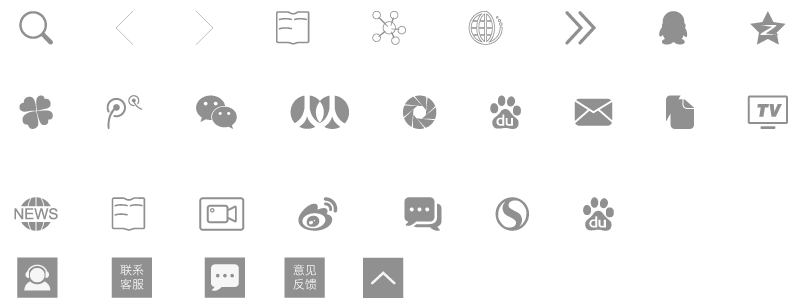
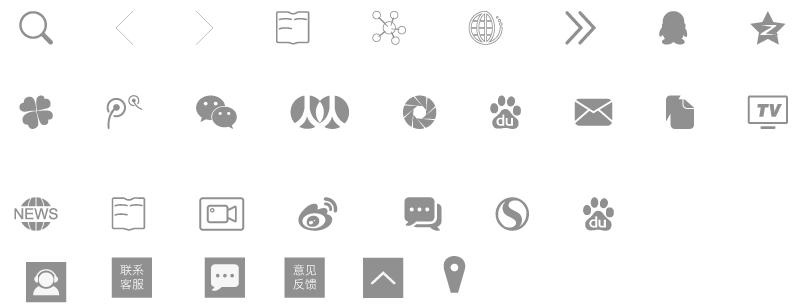
2016-08-10 11:46 update

Changed region(s): [[0.0, 0.8289, 0.0909, 1.0], [0.5455, 0.8289, 0.6061, 0.977]]

diff --git a/css/register.scss b/css/register.scss
@@ -1,5 +1,101 @@
+
+.checkbox{
+    margin-top: 30px;
+    margin-bottom: 30px;
+    .agree{
+        margin-left: 30px;
+    }
+    .checkboxOne {
+        width: 25px;
+//      margin: 20px 100px;
+        position: relative;
+    }
+    .checkboxOne label {
+        cursor: pointer;
+        position: absolute;
+        width: 25px;
+        height: 25px;
+        top: 0;
+        left: 0;
+        background: #FC9874;
+        border:0px solid #ddd;
+        border-radius: 5px;
+    }
+    .checkboxOne label:after {
+        opacity: 0.2;
+        content: '';
+        position: absolute;
+        width: 9px;
+        height: 5px;
+        background: transparent;
+        top: 10px;
+        left: 7px;
+        border: 3px solid #000000;
+        border-top: none;
+        border-right: none;
+     
+        -webkit-transform: rotate(-45deg);
+        -moz-transform: rotate(-45deg);
+        -o-transform: rotate(-45deg);
+        -ms-transform: rotate(-45deg);
+        transform: rotate(-45deg);
+    }
+    .checkboxOne label:hover::after {
+        opacity: 0.5;
+    }
+    .checkboxOne input[type=checkbox]:checked + label:after {
+        opacity: 1;
+    }
+    input[type=checkbox] {
+        visibility: hidden;
+    }
+}
+
 .register{
-    margin-top: 140px;
-    height: 1000px;
-    background: #DEDEDE;
+    border-top: 1px solid #DEDEDE;
+    margin-top: 121px;
+    padding-bottom: 30px;
+    padding-top: 30px;
+    height: 700px;
+    background: #F6F6F6;
+    .container{
+        width: 45% !important;
+    }
+    .register-content{
+        background: #fff;
+        height: 600px;
+        padding-top: 20px;
+    }
+    .content{
+        margin: 0 auto;
+        width: 50%;
+        h1{
+            text-align: center;
+            font-size: 30px;
+            font-weight: 500;
+            font-family: "microsoft yahei";
+        }
+        .form{
+            margin: 0 auto;
+            width: 300px;
+            .rule{
+                color: #FC9874;
+            }
+            button{
+                border: 1px solid #FC9874;
+            }
+            button:hover{
+                background: #FC9874;
+                color: #fff;
+            }
+            .register-login{
+                text-align: center;
+                margin-top: 30px;
+                padding-bottom: 30px;
+                span{
+                    color: #FC9874;
+                }
+            }
+        }
+    }
 }

diff --git a/css/register.css b/css/register.css
@@ -1,6 +1,81 @@
+.checkbox {
+  margin-top: 30px;
+  margin-bottom: 30px; }
+  .checkbox .agree {
+    margin-left: 30px; }
+  .checkbox .checkboxOne {
+    width: 25px;
+    position: relative; }
+  .checkbox .checkboxOne label {
+    cursor: pointer;
+    position: absolute;
+    width: 25px;
+    height: 25px;
+    top: 0;
+    left: 0;
+    background: #FC9874;
+    border: 0px solid #ddd;
+    border-radius: 5px; }
+  .checkbox .checkboxOne label:after {
+    opacity: 0.2;
+    content: '';
+    position: absolute;
+    width: 9px;
+    height: 5px;
+    background: transparent;
+    top: 10px;
+    left: 7px;
+    border: 3px solid #000000;
+    border-top: none;
+    border-right: none;
+    -webkit-transform: rotate(-45deg);
+    -moz-transform: rotate(-45deg);
+    -o-transform: rotate(-45deg);
+    -ms-transform: rotate(-45deg);
+    transform: rotate(-45deg); }
+  .checkbox .checkboxOne label:hover::after {
+    opacity: 0.5; }
+  .checkbox .checkboxOne input[type=checkbox]:checked + label:after {
+    opacity: 1; }
+  .checkbox input[type=checkbox] {
+    visibility: hidden; }
+
 .register {
-  margin-top: 140px;
-  height: 1000px;
-  background: #DEDEDE; }
+  border-top: 1px solid #DEDEDE;
+  margin-top: 121px;
+  padding-bottom: 30px;
+  padding-top: 30px;
+  height: 700px;
+  background: #F6F6F6; }
+  .register .container {
+    width: 45% !important; }
+  .register .register-content {
+    background: #fff;
+    height: 600px;
+    padding-top: 20px; }
+  .register .content {
+    margin: 0 auto;
+    width: 50%; }
+    .register .content h1 {
+      text-align: center;
+      font-size: 30px;
+      font-weight: 500;
+      font-family: "microsoft yahei"; }
+    .register .content .form {
+      margin: 0 auto;
+      width: 300px; }
+      .register .content .form .rule {
+        color: #FC9874; }
+      .register .content .form button {
+        border: 1px solid #FC9874; }
+      .register .content .form button:hover {
+        background: #FC9874;
+        color: #fff; }
+      .register .content .form .register-login {
+        text-align: center;
+        margin-top: 30px;
+        padding-bottom: 30px; }
+        .register .content .form .register-login span {
+          color: #FC9874; }
 
 /*# sourceMappingURL=register.css.map */

diff --git a/register.html b/register.html
@@ -70,8 +70,53 @@
 				</div>
 			</div>
 			
-			<div class="register r">
-				
+			<div class="register">
+				<div class="container register-content">
+					<div class="row">
+						<div class="col-xs-12">
+							<div class="content">
+								<h1>欢迎加入蚁穴平台</h1>
+								<form class="form">
+									<div class="form-group">
+										<input type="text" class="form-control" id="exampleInputEmail1" placeholder="昵称">
+									</div>
+									<div class="form-group">
+										<input type="password" class="form-control" id="exampleInputPassword1" placeholder="帐号">
+									</div>
+									<div class="form-group">
+										<input type="password" class="form-control" id="exampleInputPassword1" placeholder="密码">
+									</div>
+									<div class="form-group">
+										<input type="password" class="form-control" id="exampleInputPassword1" placeholder="重复密码">
+									</div>
+									<div class="form-group">
+										<input type="tel" class="form-control" id="exampleInputPassword1" placeholder="电话（选填）">
+									</div>
+									<div class="form-group">
+										<input type="email" class="form-control" id="exampleInputPassword1" placeholder="邮箱（选填）">
+									</div>
+									<div class="checkbox">
+								      	<div class="checkboxOne">
+									  		<input type="checkbox" value="1" id="checkboxOneInput" name="" />
+										  	<label for="checkboxOneInput"></label>
+									  	</div>
+								      	<div class="agree">
+								      		我已阅读并同意
+								      		<span class="rule">《服务条款》</span>
+								      	</div>
+									</div>
+									
+									<button type="button" class="btn btn-default btn-lg btn-block">注册</button>
+									
+									<p class="register-login">
+										已有帐号，现在去
+										<span>登陆</span>
+									</p>
+								</form>
+							</div>
+						</div>
+					</div>
+				</div>
 			</div>
 			
 			<div class="footer">

diff --git a/css/style.css b/css/style.css
@@ -98,7 +98,7 @@ h4 b{
     .footer .footer-right .footer-address .address {
       width: 20px;
       background: url(../images/icon.png) no-repeat 0 0;
-      background-position: -360px -60px;
+      background-position: -272px -161px;
       background-size: 500px; }
     .footer .footer-right .footer-right-r {
       margin-left: -50px; }
@@ -126,6 +126,9 @@ h4 b{
 		width: 1200px !important;
 	}
 	.bg-img{
+		width: 1200px !important;
+	}
+	.register{
 		width: 1200px !important;
 	}
 }
